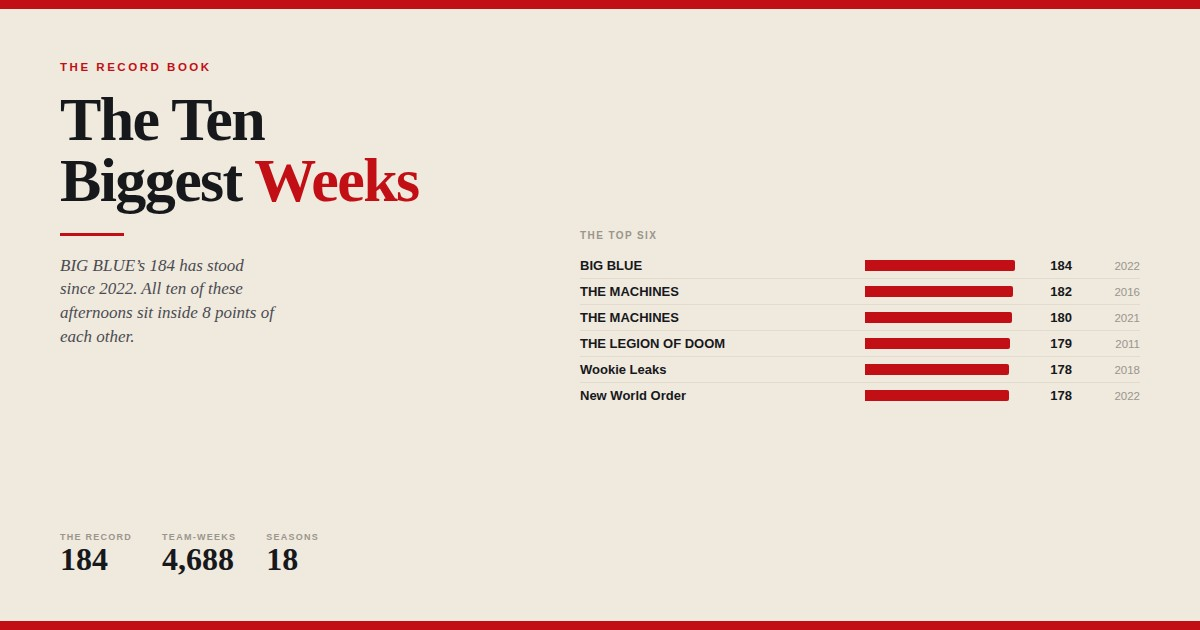
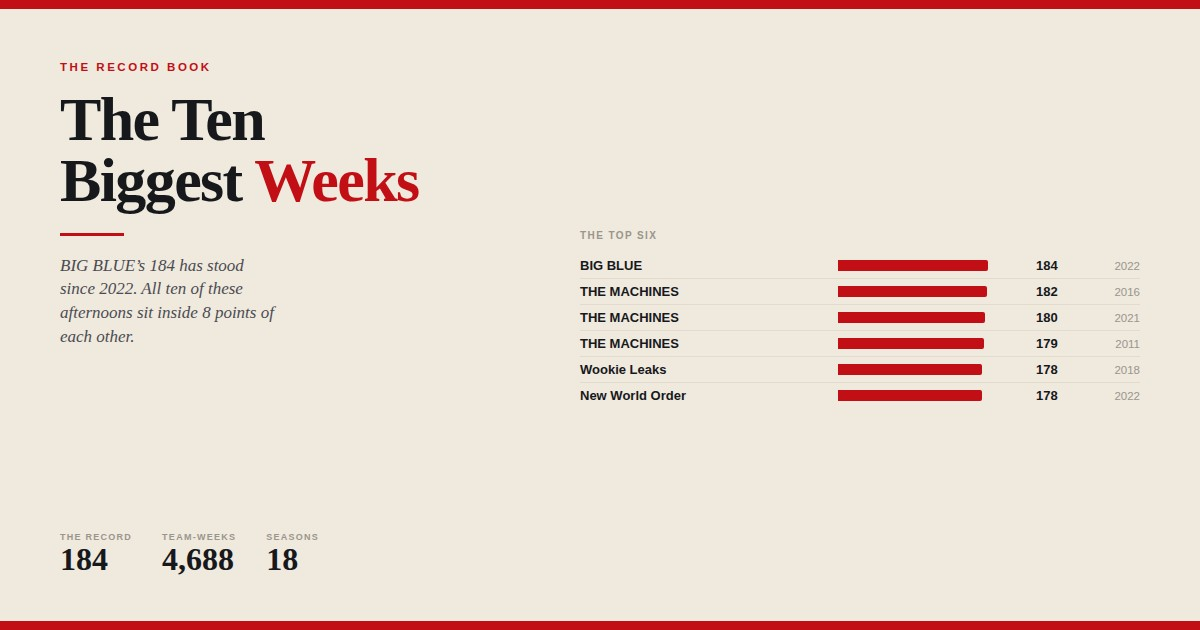
The record book is keyed on the owner, not the name on the shirt
John: "'Legion of doom' is the machines."

He is right, and the error was systemic rather than a one-off. Fourteen
of the sixteen owners in this league have renamed their team at least
once and one has used seven names, so keying the record book on the name
printed that season was splitting single franchises into several.

The Machines played 2011 as THE LEGION OF DOOM and 2015 as COUSIN PETE IS
SOFT. The Beaver Eaters have been YO MAMA, Tre'Quan Da Chef and the San
Diego Football Team. Killer Klowns were the Ball Chinians.

So the page said five of the ten biggest weeks belong to The Machines.
It is six. And the era-adjusted record, which the page attributed to a
LEGION OF DOOM that never existed as a separate franchise, is theirs too
-- they hold the top of both lists.

Owner is the only stable identity in the file, so the book is keyed on
that now, and the period name is carried alongside and printed under the
franchise: "THE MACHINES / as THE LEGION OF DOOM". Normalising it away
silently would have been worse than the bug -- a reader who was there in
2011 remembers the name, not the owner id.

Claude-Session: https://claude.ai/code/session_01UFuyFKGPqfLKJjzL4J7sQk

diff --git a/scfl-big-weeks.html b/scfl-big-weeks.html
@@ -7,7 +7,7 @@
 <meta property="og:type" content="article">
 <meta property="og:site_name" content="SCFL NewsRoom">
 <meta property="og:title" content="The Ten Biggest Weeks">
-<meta property="og:description" content="BIG BLUE hold the record at 184. Adjusted for an era when the league scored a quarter less, the biggest week belongs to THE LEGION OF DOOM.">
+<meta property="og:description" content="BIG BLUE hold the record at 184. Adjusted for an era when the league scored a quarter less, the biggest week belongs to THE MACHINES.">
 <meta property="og:image" content="https://watsoncapitalinvest-dot.github.io/Claude/scfl-big-weeks-og.jpg">
 <meta name="twitter:card" content="summary_large_image">
 <link rel="icon" href="newsroom-favicon.png">
@@ -143,6 +143,8 @@ p.b{margin:0 0 16px;max-width:62ch;}
  text-transform:uppercase;color:#fff;background:var(--gold);padding:1px 5px;border-radius:2px;
  margin-left:6px;vertical-align:1px;}
 .ad .lost{color:var(--blue);font-weight:800;}
+.was{display:block;font-family:var(--sans);font-size:10px;font-weight:600;
+ letter-spacing:.04em;color:var(--faint);margin-top:1px;}
 .live{border:2px solid var(--red);border-radius:3px;padding:16px 18px;margin:0 0 28px;
  background:#fdf4f2;}
 .live .lk{font-family:var(--sans);font-size:9.5px;font-weight:900;letter-spacing:.2em;
@@ -168,24 +170,24 @@ the one at the top has stood since 2022.</p>
         <div class="n">Powers of Pain managed 99</div></div>
       <div class="stat"><div class="k">Seasons on record</div><div class="v">18</div>
         <div class="n">2008&ndash;2025</div></div>
-      <div class="stat"><div class="k">One franchise</div><div class="v">5</div>
+      <div class="stat"><div class="k">One franchise</div><div class="v">6</div>
         <div class="n">of the ten, all to The Machines</div></div>
     </div>
-<div class="live"><div class="lk">As we go to press</div><p><b>Beaver Eaters</b> are on <b>176.4</b> in week 5 with players still to play &mdash; <b>7.6 points</b> short of the record on this page, which has stood 4 seasons.</p><p>That is the closest anybody has come this season as of Sunday evening. The number is read off the week file, so when the week finishes it changes with it.</p><p class="lf">For the pedants: 176 in a 97-point league is 1.83&times; the field, which would not reach the adjusted ten below.</p></div>
+<div class="live"><div class="lk">As we go to press</div><p><b>Beaver Eaters</b> are on <b>176.7</b> in week 5 with players still to play &mdash; <b>7.3 points</b> short of the record on this page, which has stood 4 seasons.</p><p>That is the closest anybody has come this season as of Sunday evening. The number is read off the week file, so when the week finishes it changes with it.</p><p class="lf">For the pedants: 177 in a 97-point league is 1.83&times; the field, which would not reach the adjusted ten below.</p></div>
 <p class="b">The biggest score anybody has ever put up in this league is 184, by BIG BLUE in week 13 of 2022, against Powers of Pain, who managed 99. They finished that season 15-1-1 and won the title.</p>
-<p class="b">Below it sit nine more afternoons that got close and never arrived. 5 of the ten belong to The Machines. 2 came in the playoffs. And one of them was put up against a team that scored 150 &mdash; the highest losing score in the book.</p>
+<p class="b">Below it sit nine more afternoons that got close and never arrived. 6 of the ten belong to The Machines. 2 came in the playoffs. And one of them was put up against a team that scored 150 &mdash; the highest losing score in the book.</p>
 <div class="sect">The List As It Stands</div>
-<div class="ad"><figure><div class="scroll"><table><thead><tr><th></th><th class="lt">Team</th><th class="lt">Points</th><th></th><th>When</th><th class="lt">Opponent</th></tr></thead><tbody><tr><th class="rk">1</th><th scope="row">BIG BLUE</th><td class="bar"><span style="width:100.0%"></span></td><td class="num"><b>184.0</b></td><td class="num dim">2022 wk 13</td><td class="dim">v Powers of Pain (99)</td></tr><tr><th class="rk">2</th><th scope="row">THE MACHINES</th><td class="bar"><span style="width:99.2%"></span></td><td class="num"><b>182.5</b></td><td class="num dim">2016 wk 10</td><td class="dim">v YO MAMA (96)</td></tr><tr><th class="rk">3</th><th scope="row">THE MACHINES</th><td class="bar"><span style="width:98.1%"></span></td><td class="num"><b>180.5</b></td><td class="num dim">2021 wk 2</td><td class="dim">v Still The Cream (102)</td></tr><tr><th class="rk">4</th><th scope="row">THE LEGION OF DOOM<span class="po">playoff</span></th><td class="bar"><span style="width:97.3%"></span></td><td class="num"><b>179.0</b></td><td class="num dim">2011 wk 16</td><td class="dim">v The Powers of Pain (93)</td></tr><tr><th class="rk">5</th><th scope="row">Wookie Leaks</th><td class="bar"><span style="width:96.5%"></span></td><td class="num"><b>177.5</b></td><td class="num dim">2018 wk 4</td><td class="dim">v Still The Cream (111)</td></tr><tr><th class="rk">6</th><th scope="row">New World Order</th><td class="bar"><span style="width:96.5%"></span></td><td class="num"><b>177.5</b></td><td class="num dim">2022 wk 2</td><td class="dim">v HEAVY HITTERS (72)</td></tr><tr><th class="rk">7</th><th scope="row">THE MACHINES</th><td class="bar"><span style="width:96.2%"></span></td><td class="num"><b>177.0</b></td><td class="num dim">2013 wk 8</td><td class="dim">v Quahog Clams (63)</td></tr><tr><th class="rk">8</th><th scope="row">YO MAMA</th><td class="bar"><span style="width:96.2%"></span></td><td class="num"><b>177.0</b></td><td class="num dim">2017 wk 12</td><td class="dim">v Horse Collars (85)</td></tr><tr><th class="rk">9</th><th scope="row">THE MACHINES<span class="po">playoff</span></th><td class="bar"><span style="width:96.2%"></span></td><td class="num"><b>177.0</b></td><td class="num dim">2018 wk 16</td><td class="dim">v The Hairy Gumbas (72)</td></tr><tr><th class="rk">10</th><th scope="row">THE MACHINES</th><td class="bar"><span style="width:95.7%"></span></td><td class="num"><b>176.0</b></td><td class="num dim">2014 wk 13</td><td class="dim">v Ball Chinians (150)</td></tr></tbody></table></div><figcaption>Every team-week in 18 recorded seasons. 5 of the ten belong to one franchise.</figcaption></figure></div>
+<div class="ad"><figure><div class="scroll"><table><thead><tr><th></th><th class="lt">Team</th><th class="lt">Points</th><th></th><th>When</th><th class="lt">Opponent</th></tr></thead><tbody><tr><th class="rk">1</th><th scope="row">BIG BLUE</th><td class="bar"><span style="width:100.0%"></span></td><td class="num"><b>184.0</b></td><td class="num dim">2022 wk 13</td><td class="dim">v Powers of Pain (99)</td></tr><tr><th class="rk">2</th><th scope="row">THE MACHINES</th><td class="bar"><span style="width:99.2%"></span></td><td class="num"><b>182.5</b></td><td class="num dim">2016 wk 10</td><td class="dim">v The Beaver Eaters (96)<span class="was">as YO MAMA</span></td></tr><tr><th class="rk">3</th><th scope="row">THE MACHINES</th><td class="bar"><span style="width:98.1%"></span></td><td class="num"><b>180.5</b></td><td class="num dim">2021 wk 2</td><td class="dim">v Still The Cream (102)</td></tr><tr><th class="rk">4</th><th scope="row">THE MACHINES<span class="po">playoff</span><span class="was">as THE LEGION OF DOOM</span></th><td class="bar"><span style="width:97.3%"></span></td><td class="num"><b>179.0</b></td><td class="num dim">2011 wk 16</td><td class="dim">v Powers of Pain (93)<span class="was">as The Powers of Pain</span></td></tr><tr><th class="rk">5</th><th scope="row">Wookie Leaks</th><td class="bar"><span style="width:96.5%"></span></td><td class="num"><b>177.5</b></td><td class="num dim">2018 wk 4</td><td class="dim">v Still The Cream (111)</td></tr><tr><th class="rk">6</th><th scope="row">New World Order</th><td class="bar"><span style="width:96.5%"></span></td><td class="num"><b>177.5</b></td><td class="num dim">2022 wk 2</td><td class="dim">v HEAVY HITTERS (72)</td></tr><tr><th class="rk">7</th><th scope="row">THE MACHINES</th><td class="bar"><span style="width:96.2%"></span></td><td class="num"><b>177.0</b></td><td class="num dim">2013 wk 8</td><td class="dim">v The Quahog Clams (63)<span class="was">as Quahog Clams</span></td></tr><tr><th class="rk">8</th><th scope="row">The Beaver Eaters<span class="was">as YO MAMA</span></th><td class="bar"><span style="width:96.2%"></span></td><td class="num"><b>177.0</b></td><td class="num dim">2017 wk 12</td><td class="dim">v Horse Collars (85)</td></tr><tr><th class="rk">9</th><th scope="row">THE MACHINES<span class="po">playoff</span></th><td class="bar"><span style="width:96.2%"></span></td><td class="num"><b>177.0</b></td><td class="num dim">2018 wk 16</td><td class="dim">v Hairy Gumbas (72)<span class="was">as The Hairy Gumbas</span></td></tr><tr><th class="rk">10</th><th scope="row">THE MACHINES</th><td class="bar"><span style="width:95.7%"></span></td><td class="num"><b>176.0</b></td><td class="num dim">2014 wk 13</td><td class="dim">v Ball Chinians (150)</td></tr></tbody></table></div><figcaption>Every team-week in 18 recorded seasons. 6 of the ten belong to one franchise.</figcaption></figure></div>
 <div class="sect">The Ones That Were Not Enough</div>
 <p class="b">The other half of a record list is the afternoons that deserved better. Ball Chinians scored 150 in week 13 of 2014 and lost, because THE MACHINES picked the same afternoon for 176 &mdash; the week sitting at number 10 on the list above. That 150 would have won 48 per cent of every other game ever played in this league.</p>
-<div class="ad"><figure><div class="scroll"><table><thead><tr><th></th><th class="lt">Team</th><th class="lt">Points, and still beaten</th><th></th><th>When</th><th class="lt">Beaten by</th><th>Margin</th></tr></thead><tbody><tr><th class="rk">1</th><th scope="row">Ball Chinians</th><td class="bar"><span class="lo" style="width:100.0%"></span></td><td class="num"><b>150.0</b></td><td class="num dim">2014 wk 13</td><td class="dim">lost to THE MACHINES (176)</td><td class="num dim">&minus;26.0</td></tr><tr><th class="rk">2</th><th scope="row">Pork Chop Express<span class="po">playoff</span></th><td class="bar"><span class="lo" style="width:96.0%"></span></td><td class="num"><b>144.0</b></td><td class="num dim">2023 wk 15</td><td class="dim">lost to New World Order (146)</td><td class="num dim">&minus;2.5</td></tr><tr><th class="rk">3</th><th scope="row">Pork Chop Express</th><td class="bar"><span class="lo" style="width:91.7%"></span></td><td class="num"><b>137.5</b></td><td class="num dim">2020 wk 7</td><td class="dim">lost to Still The Cream (147)</td><td class="num dim">&minus;9.5</td></tr><tr><th class="rk">4</th><th scope="row">New World Order</th><td class="bar"><span class="lo" style="width:91.0%"></span></td><td class="num"><b>136.5</b></td><td class="num dim">2019 wk 5</td><td class="dim">lost to Horse Collars (140)</td><td class="num dim">&minus;3.5</td></tr><tr><th class="rk">5</th><th scope="row">RETURN OF THE JET-I<span class="po">playoff</span></th><td class="bar"><span class="lo" style="width:89.7%"></span></td><td class="num"><b>134.5</b></td><td class="num dim">2022 wk 15</td><td class="dim">lost to THE MACHINES (144)</td><td class="num dim">&minus;9.5</td></tr><tr><th class="rk">6</th><th scope="row">Horse Collars<span class="po">playoff</span></th><td class="bar"><span class="lo" style="width:89.3%"></span></td><td class="num"><b>134.0</b></td><td class="num dim">2020 wk 14</td><td class="dim">lost to Disciples of Darnold (140)</td><td class="num dim">&minus;6.0</td></tr><tr><th class="rk">7</th><th scope="row">The Smoke Dragons</th><td class="bar"><span class="lo" style="width:87.7%"></span></td><td class="num"><b>131.5</b></td><td class="num dim">2021 wk 6</td><td class="dim">lost to BIG BLUE (148)</td><td class="num dim">&minus;17.0</td></tr><tr><th class="rk">8</th><th scope="row">Tre&#x27;Quan Da Chef</th><td class="bar"><span class="lo" style="width:87.0%"></span></td><td class="num"><b>130.5</b></td><td class="num dim">2018 wk 4</td><td class="dim">lost to New World Order (144)</td><td class="num dim">&minus;13.5</td></tr></tbody></table></div><figcaption>Highest scores by a losing team. 3 of the eight came in the playoffs, where there is no next week.</figcaption></figure></div>
+<div class="ad"><figure><div class="scroll"><table><thead><tr><th></th><th class="lt">Team</th><th class="lt">Points, and still beaten</th><th></th><th>When</th><th class="lt">Beaten by</th><th>Margin</th></tr></thead><tbody><tr><th class="rk">1</th><th scope="row">Ball Chinians</th><td class="bar"><span class="lo" style="width:100.0%"></span></td><td class="num"><b>150.0</b></td><td class="num dim">2014 wk 13</td><td class="dim">lost to THE MACHINES (176)</td><td class="num dim">&minus;26.0</td></tr><tr><th class="rk">2</th><th scope="row">Pork Chop Express<span class="po">playoff</span></th><td class="bar"><span class="lo" style="width:96.0%"></span></td><td class="num"><b>144.0</b></td><td class="num dim">2023 wk 15</td><td class="dim">lost to New World Order (146)</td><td class="num dim">&minus;2.5</td></tr><tr><th class="rk">3</th><th scope="row">Pork Chop Express</th><td class="bar"><span class="lo" style="width:91.7%"></span></td><td class="num"><b>137.5</b></td><td class="num dim">2020 wk 7</td><td class="dim">lost to Still The Cream (147)</td><td class="num dim">&minus;9.5</td></tr><tr><th class="rk">4</th><th scope="row">New World Order</th><td class="bar"><span class="lo" style="width:91.0%"></span></td><td class="num"><b>136.5</b></td><td class="num dim">2019 wk 5</td><td class="dim">lost to Horse Collars (140)</td><td class="num dim">&minus;3.5</td></tr><tr><th class="rk">5</th><th scope="row">MASTER JET-I<span class="po">playoff</span><span class="was">as RETURN OF THE JET-I</span></th><td class="bar"><span class="lo" style="width:89.7%"></span></td><td class="num"><b>134.5</b></td><td class="num dim">2022 wk 15</td><td class="dim">lost to THE MACHINES (144)</td><td class="num dim">&minus;9.5</td></tr><tr><th class="rk">6</th><th scope="row">Horse Collars<span class="po">playoff</span></th><td class="bar"><span class="lo" style="width:89.3%"></span></td><td class="num"><b>134.0</b></td><td class="num dim">2020 wk 14</td><td class="dim">lost to Lamb Chops (140)<span class="was">as Disciples of Darnold</span></td><td class="num dim">&minus;6.0</td></tr><tr><th class="rk">7</th><th scope="row">The Smoke Dragons</th><td class="bar"><span class="lo" style="width:87.7%"></span></td><td class="num"><b>131.5</b></td><td class="num dim">2021 wk 6</td><td class="dim">lost to BIG BLUE (148)</td><td class="num dim">&minus;17.0</td></tr><tr><th class="rk">8</th><th scope="row">The Beaver Eaters<span class="was">as Tre&#x27;Quan Da Chef</span></th><td class="bar"><span class="lo" style="width:87.0%"></span></td><td class="num"><b>130.5</b></td><td class="num dim">2018 wk 4</td><td class="dim">lost to New World Order (144)</td><td class="num dim">&minus;13.5</td></tr></tbody></table></div><figcaption>Highest scores by a losing team. 3 of the eight came in the playoffs, where there is no next week.</figcaption></figure></div>
 <p class="b">The cruellest is not the biggest. Pork Chop Express put 144 on the board in 2023 &mdash; in the playoffs &mdash; and went out by 2.5.</p>
 <div class="sect">A Note On Era</div>
-<p class="b">One caveat for anyone who likes arguing about records. The league averaged 78.5 points a team-week in 2011 and 101.2 in 2018, so the same score is a different achievement depending on when it happened. Measured against its own season, the order shuffles &mdash; THE LEGION OF DOOM top it, and the record itself drops to 3.</p>
-<div class="ad"><figure><div class="scroll"><table><thead><tr><th></th><th class="lt">Team</th><th class="lt">Share of that season&rsquo;s average</th><th>Index</th><th>Points</th><th>Year</th><th>Context</th></tr></thead><tbody><tr><th class="rk">1</th><th scope="row">THE LEGION OF DOOM<span class="po">playoff</span></th><td class="bar"><span style="width:100.0%"></span></td><td class="num"><b>2.28&times;</b></td><td class="num dim">179.0</td><td class="num dim">2011</td><td class="num dim">league avg 78.5</td></tr><tr><th class="rk">2</th><th scope="row">HEAVY HITTERS</th><td class="bar"><span style="width:92.7%"></span></td><td class="num"><b>2.11&times;</b></td><td class="num dim">166.0</td><td class="num dim">2011</td><td class="num dim">league avg 78.5</td></tr><tr><th class="rk">3</th><th scope="row">BIG BLUE</th><td class="bar"><span style="width:92.7%"></span></td><td class="num"><b>2.11&times;</b></td><td class="num dim">184.0</td><td class="num dim">2022</td><td class="num dim">league avg 87.0</td></tr><tr><th class="rk">4</th><th scope="row">New World Order</th><td class="bar"><span style="width:89.5%"></span></td><td class="num"><b>2.04&times;</b></td><td class="num dim">177.5</td><td class="num dim">2022</td><td class="num dim">league avg 87.0</td></tr><tr><th class="rk">5</th><th scope="row">THE MACHINES</th><td class="bar"><span style="width:88.4%"></span></td><td class="num"><b>2.02&times;</b></td><td class="num dim">180.5</td><td class="num dim">2021</td><td class="num dim">league avg 89.5</td></tr><tr><th class="rk">6</th><th scope="row">THE MACHINES</th><td class="bar"><span style="width:88.2%"></span></td><td class="num"><b>2.01&times;</b></td><td class="num dim">175.0</td><td class="num dim">2022</td><td class="num dim">league avg 87.0</td></tr><tr><th class="rk">7</th><th scope="row">Never 1 A GAME<span class="po">playoff</span></th><td class="bar"><span style="width:87.1%"></span></td><td class="num"><b>1.99&times;</b></td><td class="num dim">168.0</td><td class="num dim">2012</td><td class="num dim">league avg 84.6</td></tr><tr><th class="rk">8</th><th scope="row">YO MAMA</th><td class="bar"><span style="width:87.1%"></span></td><td class="num"><b>1.99&times;</b></td><td class="num dim">177.0</td><td class="num dim">2017</td><td class="num dim">league avg 89.2</td></tr><tr><th class="rk">9</th><th scope="row">THE MACHINES</th><td class="bar"><span style="width:87.0%"></span></td><td class="num"><b>1.98&times;</b></td><td class="num dim">177.0</td><td class="num dim">2013</td><td class="num dim">league avg 89.2</td></tr><tr><th class="rk">10</th><th scope="row">THE MACHINES</th><td class="bar"><span style="width:86.6%"></span></td><td class="num"><b>1.98&times;</b></td><td class="num dim">165.0</td><td class="num dim">2010</td><td class="num dim">league avg 83.5</td></tr></tbody></table></div><figcaption>Score divided by the average team week of that season. It is a footnote, not a rewrite &mdash; the record is still 184.</figcaption></figure></div>
+<p class="b">One caveat for anyone who likes arguing about records. The league averaged 78.5 points a team-week in 2011 and 101.2 in 2018, so the same score is a different achievement depending on when it happened. Measured against its own season, the order shuffles &mdash; THE MACHINES top it, and the record itself drops to 3.</p>
+<div class="ad"><figure><div class="scroll"><table><thead><tr><th></th><th class="lt">Team</th><th class="lt">Share of that season&rsquo;s average</th><th>Index</th><th>Points</th><th>Year</th><th>Context</th></tr></thead><tbody><tr><th class="rk">1</th><th scope="row">THE MACHINES<span class="po">playoff</span><span class="was">as THE LEGION OF DOOM</span></th><td class="bar"><span style="width:100.0%"></span></td><td class="num"><b>2.28&times;</b></td><td class="num dim">179.0</td><td class="num dim">2011</td><td class="num dim">league avg 78.5</td></tr><tr><th class="rk">2</th><th scope="row">HEAVY HITTERS</th><td class="bar"><span style="width:92.7%"></span></td><td class="num"><b>2.11&times;</b></td><td class="num dim">166.0</td><td class="num dim">2011</td><td class="num dim">league avg 78.5</td></tr><tr><th class="rk">3</th><th scope="row">BIG BLUE</th><td class="bar"><span style="width:92.7%"></span></td><td class="num"><b>2.11&times;</b></td><td class="num dim">184.0</td><td class="num dim">2022</td><td class="num dim">league avg 87.0</td></tr><tr><th class="rk">4</th><th scope="row">New World Order</th><td class="bar"><span style="width:89.5%"></span></td><td class="num"><b>2.04&times;</b></td><td class="num dim">177.5</td><td class="num dim">2022</td><td class="num dim">league avg 87.0</td></tr><tr><th class="rk">5</th><th scope="row">THE MACHINES</th><td class="bar"><span style="width:88.4%"></span></td><td class="num"><b>2.02&times;</b></td><td class="num dim">180.5</td><td class="num dim">2021</td><td class="num dim">league avg 89.5</td></tr><tr><th class="rk">6</th><th scope="row">THE MACHINES</th><td class="bar"><span style="width:88.2%"></span></td><td class="num"><b>2.01&times;</b></td><td class="num dim">175.0</td><td class="num dim">2022</td><td class="num dim">league avg 87.0</td></tr><tr><th class="rk">7</th><th scope="row">2017 SCFL CHAMPIONS<span class="po">playoff</span><span class="was">as Never 1 A GAME</span></th><td class="bar"><span style="width:87.1%"></span></td><td class="num"><b>1.99&times;</b></td><td class="num dim">168.0</td><td class="num dim">2012</td><td class="num dim">league avg 84.6</td></tr><tr><th class="rk">8</th><th scope="row">The Beaver Eaters<span class="was">as YO MAMA</span></th><td class="bar"><span style="width:87.1%"></span></td><td class="num"><b>1.99&times;</b></td><td class="num dim">177.0</td><td class="num dim">2017</td><td class="num dim">league avg 89.2</td></tr><tr><th class="rk">9</th><th scope="row">THE MACHINES</th><td class="bar"><span style="width:87.0%"></span></td><td class="num"><b>1.98&times;</b></td><td class="num dim">177.0</td><td class="num dim">2013</td><td class="num dim">league avg 89.2</td></tr><tr><th class="rk">10</th><th scope="row">THE MACHINES</th><td class="bar"><span style="width:86.6%"></span></td><td class="num"><b>1.98&times;</b></td><td class="num dim">165.0</td><td class="num dim">2010</td><td class="num dim">league avg 83.5</td></tr></tbody></table></div><figcaption>Score divided by the average team week of that season. It is a footnote, not a rewrite &mdash; the record is still 184.</figcaption></figure></div>
 <div class="pull">Five of the ten biggest afternoons in eighteen seasons belong to one team. Nobody else has two.</div>
-<div class="sect">One Franchise, Five Entries</div>
-<p class="b">5 of the ten biggest weeks in league history belong to The Machines &mdash; 2013, 2014, 2016, 2018, 2021. No other franchise has more than one. Whatever else the record book says about that team, it says they have been capable of an afternoon nobody else can reach, across 8 years and every scoring era this league has had.</p>
+<div class="sect">One Franchise, Six Entries</div>
+<p class="b">6 of the ten biggest weeks in league history belong to The Machines &mdash; 2011, 2013, 2014, 2016, 2018, 2021. No other franchise has more than one. Whatever else the record book says about that team, it says they have been capable of an afternoon nobody else can reach, across 10 years and every scoring era this league has had.</p>
 <div class="more">Built from <code>history.json</code> &mdash; the ESPN import covering
 18 seasons, 2008 to 2025 &mdash; by <code>scripts/build_bigweeks.py</code>.
 Season average means every team-week played that year, so the index is a score measured against

diff --git a/scripts/build_bigweeks.py b/scripts/build_bigweeks.py
@@ -113,11 +113,34 @@ def live_2026_average():
     return st.mean(sc) if sc else None
 
 
+def franchises(h):
+    """owner -> the name that franchise goes by now, and every alias it has used.
+
+    Fourteen of the sixteen owners in this league have renamed their team at
+    least once, and one of them has used seven names. Keying the record book on
+    the name printed that season splits a single franchise into several: The
+    Machines played 2011 as THE LEGION OF DOOM and 2015 as COUSIN PETE IS SOFT,
+    the Beaver Eaters have been YO MAMA and Tre'Quan Da Chef among others, and
+    Killer Klowns were the Ball Chinians. Owner is the only stable identity in
+    the file, so the book is keyed on that and the period name is carried
+    alongside for the copy to say "as THE LEGION OF DOOM".
+    """
+    now = {}
+    for s in h['seasons']:
+        for t in s.get('teams', []):
+            if t.get('owner'):
+                now[t['owner']] = clean(t['name'])
+    return now
+
+
 def crunch():
     h = json.load(open(os.path.join(ROOT, 'history.json'), encoding='utf-8'))
+    NOW = franchises(h)
     avg, rows = {}, []
     for s in h['seasons']:
-        nm = {t['id']: t['name'] for t in s.get('teams', [])}
+        nm = {t['id']: (NOW.get(t.get('owner')) or clean(t['name']))
+              for t in s.get('teams', [])}
+        asname = {t['id']: clean(t['name']) for t in s.get('teams', [])}
         sc = []
         for m in s.get('matchups') or []:
             hs, as_ = m.get('homeScore'), m.get('awayScore')
@@ -127,7 +150,9 @@ def crunch():
             for a, b, ai, bi in ((hs, as_, m.get('home'), m.get('away')),
                                  (as_, hs, m.get('away'), m.get('home'))):
                 rows.append({'pts': float(a), 'year': s['year'], 'week': m['week'],
-                             'team': clean(nm.get(ai, '?')), 'opp': clean(nm.get(bi, '?')),
+                             'team': nm.get(ai, '?'), 'opp': nm.get(bi, '?'),
+                             # what they were called that season, when it differs
+                             'as': asname.get(ai, ''), 'oppAs': asname.get(bi, ''),
                              'oppPts': float(b), 'playoff': bool(m.get('playoff'))})
         if sc:
             avg[s['year']] = statistics.mean(sc)
@@ -137,7 +162,8 @@ def crunch():
     champ, season_rec = {}, {}
     for s2 in h['seasons']:
         own = {t['id']: t.get('owner') for t in s2.get('teams', [])}
-        nm2 = {t['id']: clean(t['name']) for t in s2.get('teams', [])}
+        nm2 = {t['id']: (NOW.get(t.get('owner')) or clean(t['name']))
+               for t in s2.get('teams', [])}
         c = s2.get('champion')
         champ[s2['year']] = next((nm2[i] for i, o in own.items() if o == c), None)
         w = {}
@@ -207,6 +233,8 @@ __FIGCSS__
  text-transform:uppercase;color:#fff;background:var(--gold);padding:1px 5px;border-radius:2px;
  margin-left:6px;vertical-align:1px;}
 .ad .lost{color:var(--blue);font-weight:800;}
+.was{display:block;font-family:var(--sans);font-size:10px;font-weight:600;
+ letter-spacing:.04em;color:var(--faint);margin-top:1px;}
 .live{border:2px solid var(--red);border-radius:3px;padding:16px 18px;margin:0 0 28px;
  background:#fdf4f2;}
 .live .lk{font-family:var(--sans);font-size:9.5px;font-weight:900;letter-spacing:.2em;
@@ -232,6 +260,17 @@ the league that produced it. Franchise names are shown as the record book has th
 renames its worst team every year by rule, so the same franchise appears under more than one name.
 </div>
 </div></body></html>"""
+
+
+def alias(r, key='as', team='team'):
+    """The name that franchise was playing under at the time, when it differs.
+
+    Worth printing rather than silently normalising: the 2011 record was set by
+    a team calling itself THE LEGION OF DOOM, and a reader who was there
+    remembers the name, not the owner id.
+    """
+    a = r.get(key) or ''
+    return (f'<span class="was">as {E(a)}</span>' if a and a != r[team] else '')
 
 
 def figures(C):
@@ -320,11 +359,12 @@ def figures(C):
     for i, r in enumerate(raw, 1):
         po = '<span class="po">playoff</span>' if r['playoff'] else ''
         res = '' if r['won'] else '<span class="lost"> &mdash; and lost</span>'
-        rr += (f'<tr><th class="rk">{i}</th><th scope="row">{E(r["team"])}{po}</th>'
+        rr += (f'<tr><th class="rk">{i}</th><th scope="row">{E(r["team"])}{po}{alias(r)}</th>'
                f'<td class="bar"><span style="width:{100*r["pts"]/mx:.1f}%"></span></td>'
                f'<td class="num"><b>{r["pts"]:.1f}</b></td>'
                f'<td class="num dim">{r["year"]} wk {r["week"]}</td>'
-               f'<td class="dim">v {E(r["opp"])} ({r["oppPts"]:.0f}){res}</td></tr>')
+               f'<td class="dim">v {E(r["opp"])} ({r["oppPts"]:.0f}){res}'
+               f'{alias(r, "oppAs", "opp")}</td></tr>')
     B(f'<figure><div class="scroll"><table><thead><tr><th></th><th class="lt">Team</th>'
       f'<th class="lt">Points</th><th></th><th>When</th><th class="lt">Opponent</th></tr></thead>'
       f'<tbody>{rr}</tbody></table></div>'
@@ -356,11 +396,12 @@ def figures(C):
     rr = ''
     for i, r in enumerate(lost, 1):
         po = '<span class="po">playoff</span>' if r['playoff'] else ''
-        rr += (f'<tr><th class="rk">{i}</th><th scope="row">{E(r["team"])}{po}</th>'
+        rr += (f'<tr><th class="rk">{i}</th><th scope="row">{E(r["team"])}{po}{alias(r)}</th>'
                f'<td class="bar"><span class="lo" style="width:{100*r["pts"]/mx:.1f}%"></span></td>'
                f'<td class="num"><b>{r["pts"]:.1f}</b></td>'
                f'<td class="num dim">{r["year"]} wk {r["week"]}</td>'
-               f'<td class="dim">lost to {E(r["opp"])} ({r["oppPts"]:.0f})</td>'
+               f'<td class="dim">lost to {E(r["opp"])} ({r["oppPts"]:.0f})'
+               f'{alias(r, "oppAs", "opp")}</td>'
                f'<td class="num dim">&minus;{r["oppPts"]-r["pts"]:.1f}</td></tr>')
     B(f'<figure><div class="scroll"><table><thead><tr><th></th><th class="lt">Team</th>'
       f'<th class="lt">Points, and still beaten</th><th></th><th>When</th>'
@@ -385,7 +426,7 @@ def figures(C):
     rr = ''
     for i, r in enumerate(era, 1):
         po = '<span class="po">playoff</span>' if r['playoff'] else ''
-        rr += (f'<tr><th class="rk">{i}</th><th scope="row">{E(r["team"])}{po}</th>'
+        rr += (f'<tr><th class="rk">{i}</th><th scope="row">{E(r["team"])}{po}{alias(r)}</th>'
                f'<td class="bar"><span style="width:{100*r["idx"]/mx:.1f}%"></span></td>'
                f'<td class="num"><b>{r["idx"]:.2f}&times;</b></td>'
                f'<td class="num dim">{r["pts"]:.1f}</td>'
